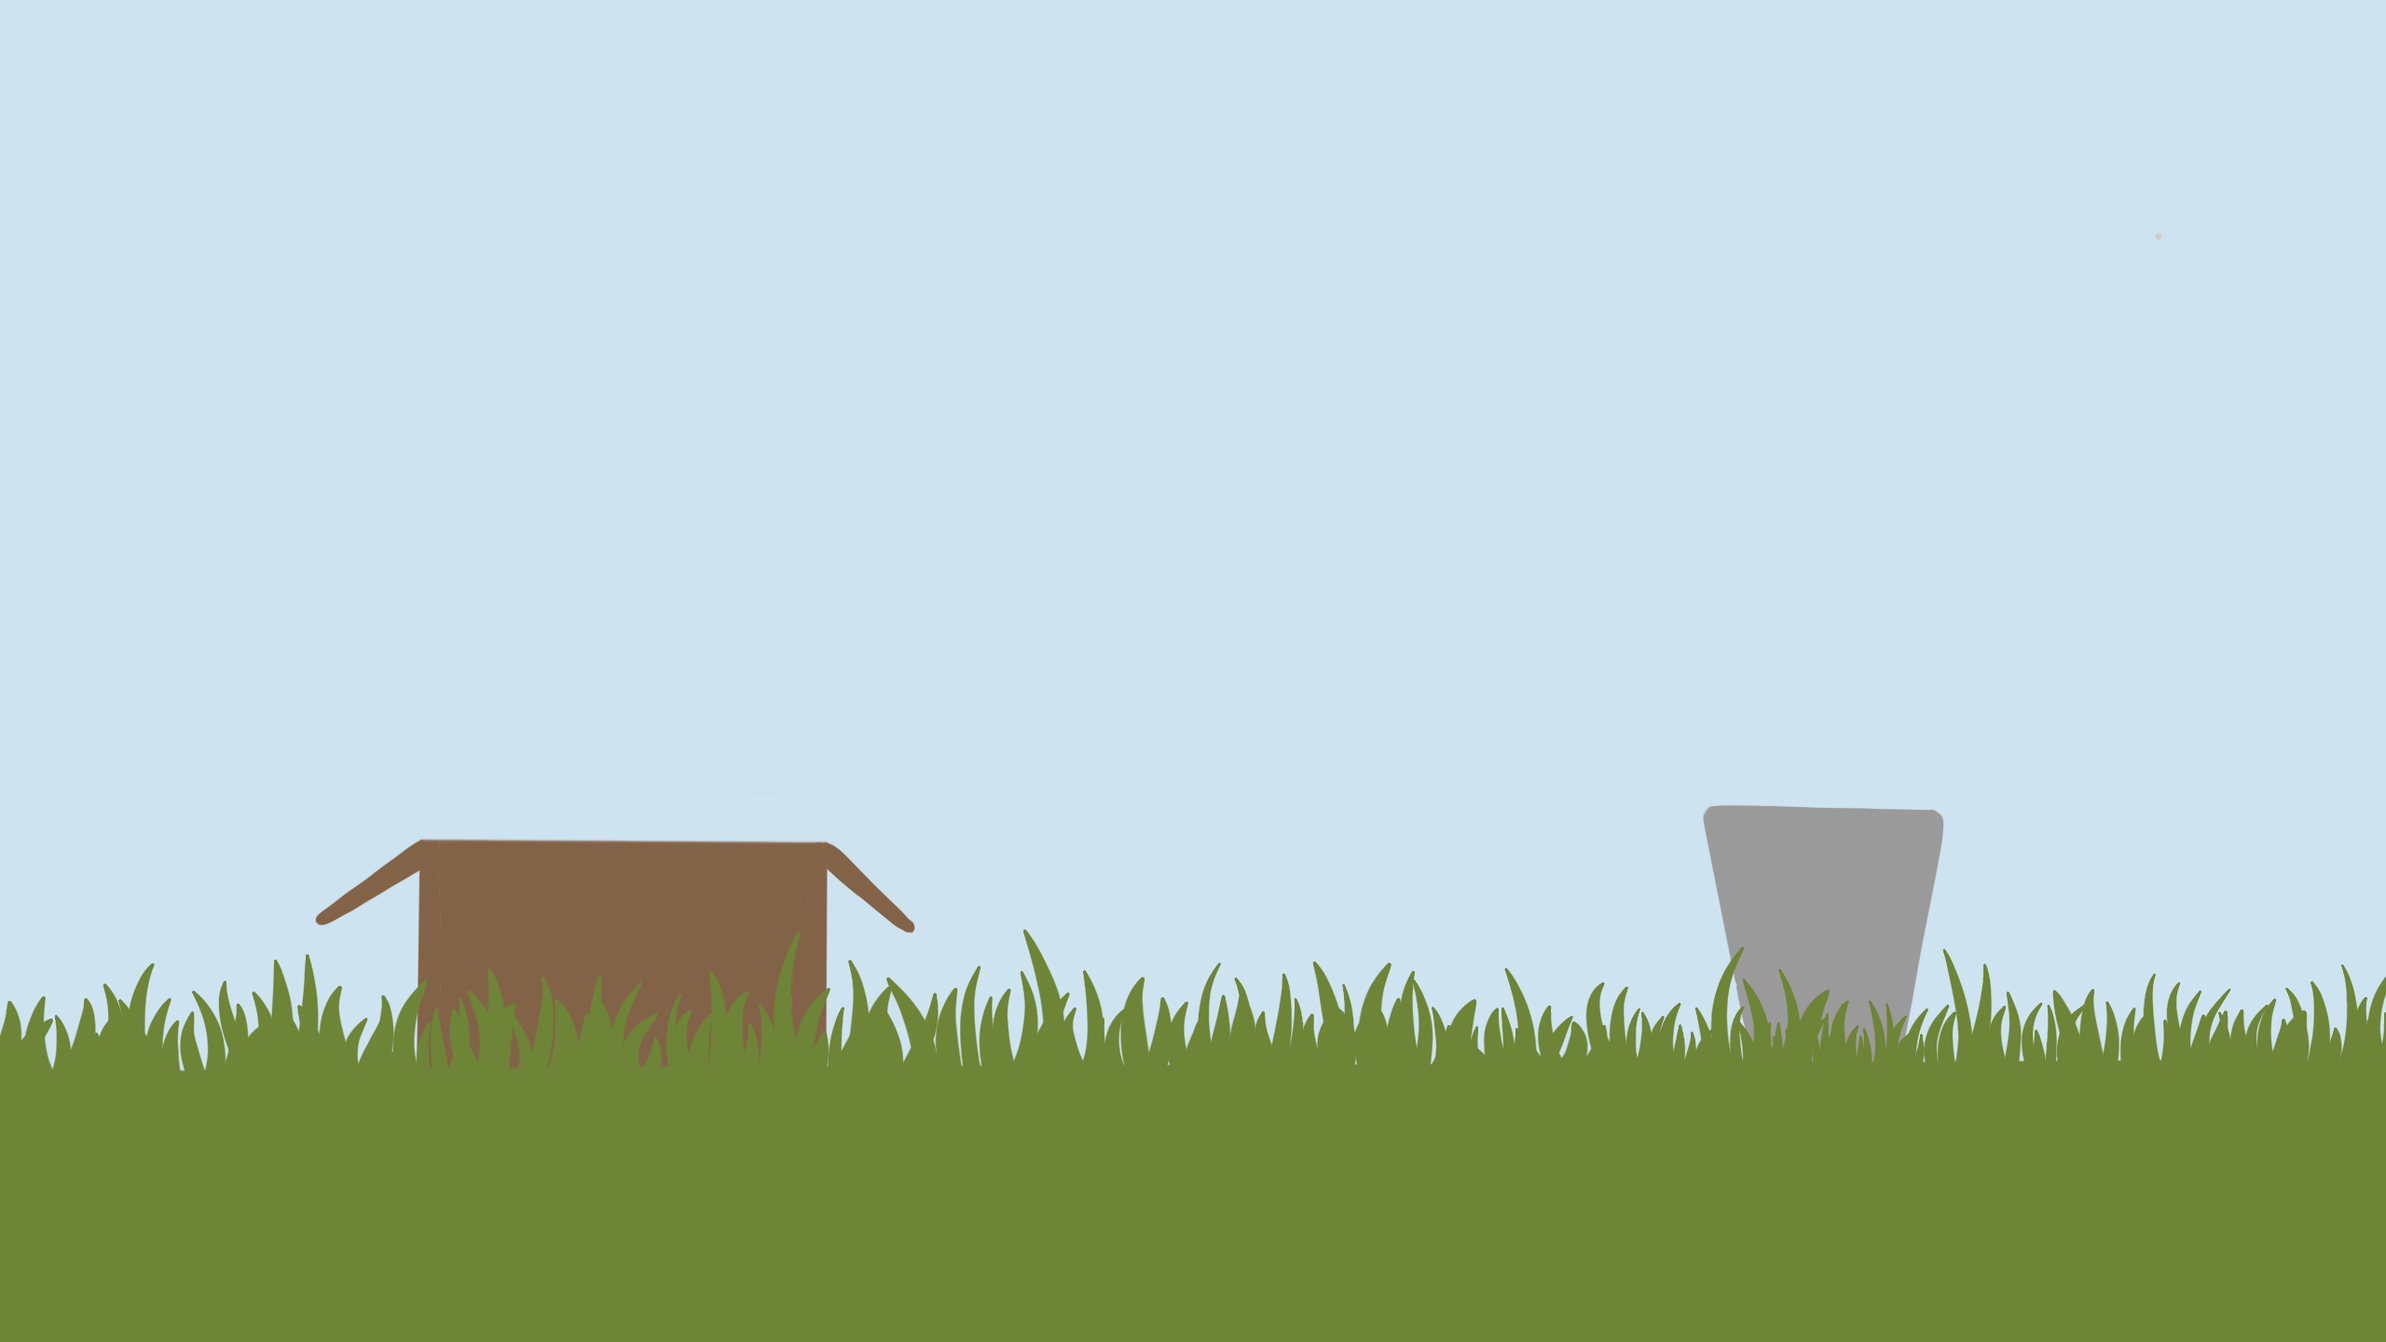
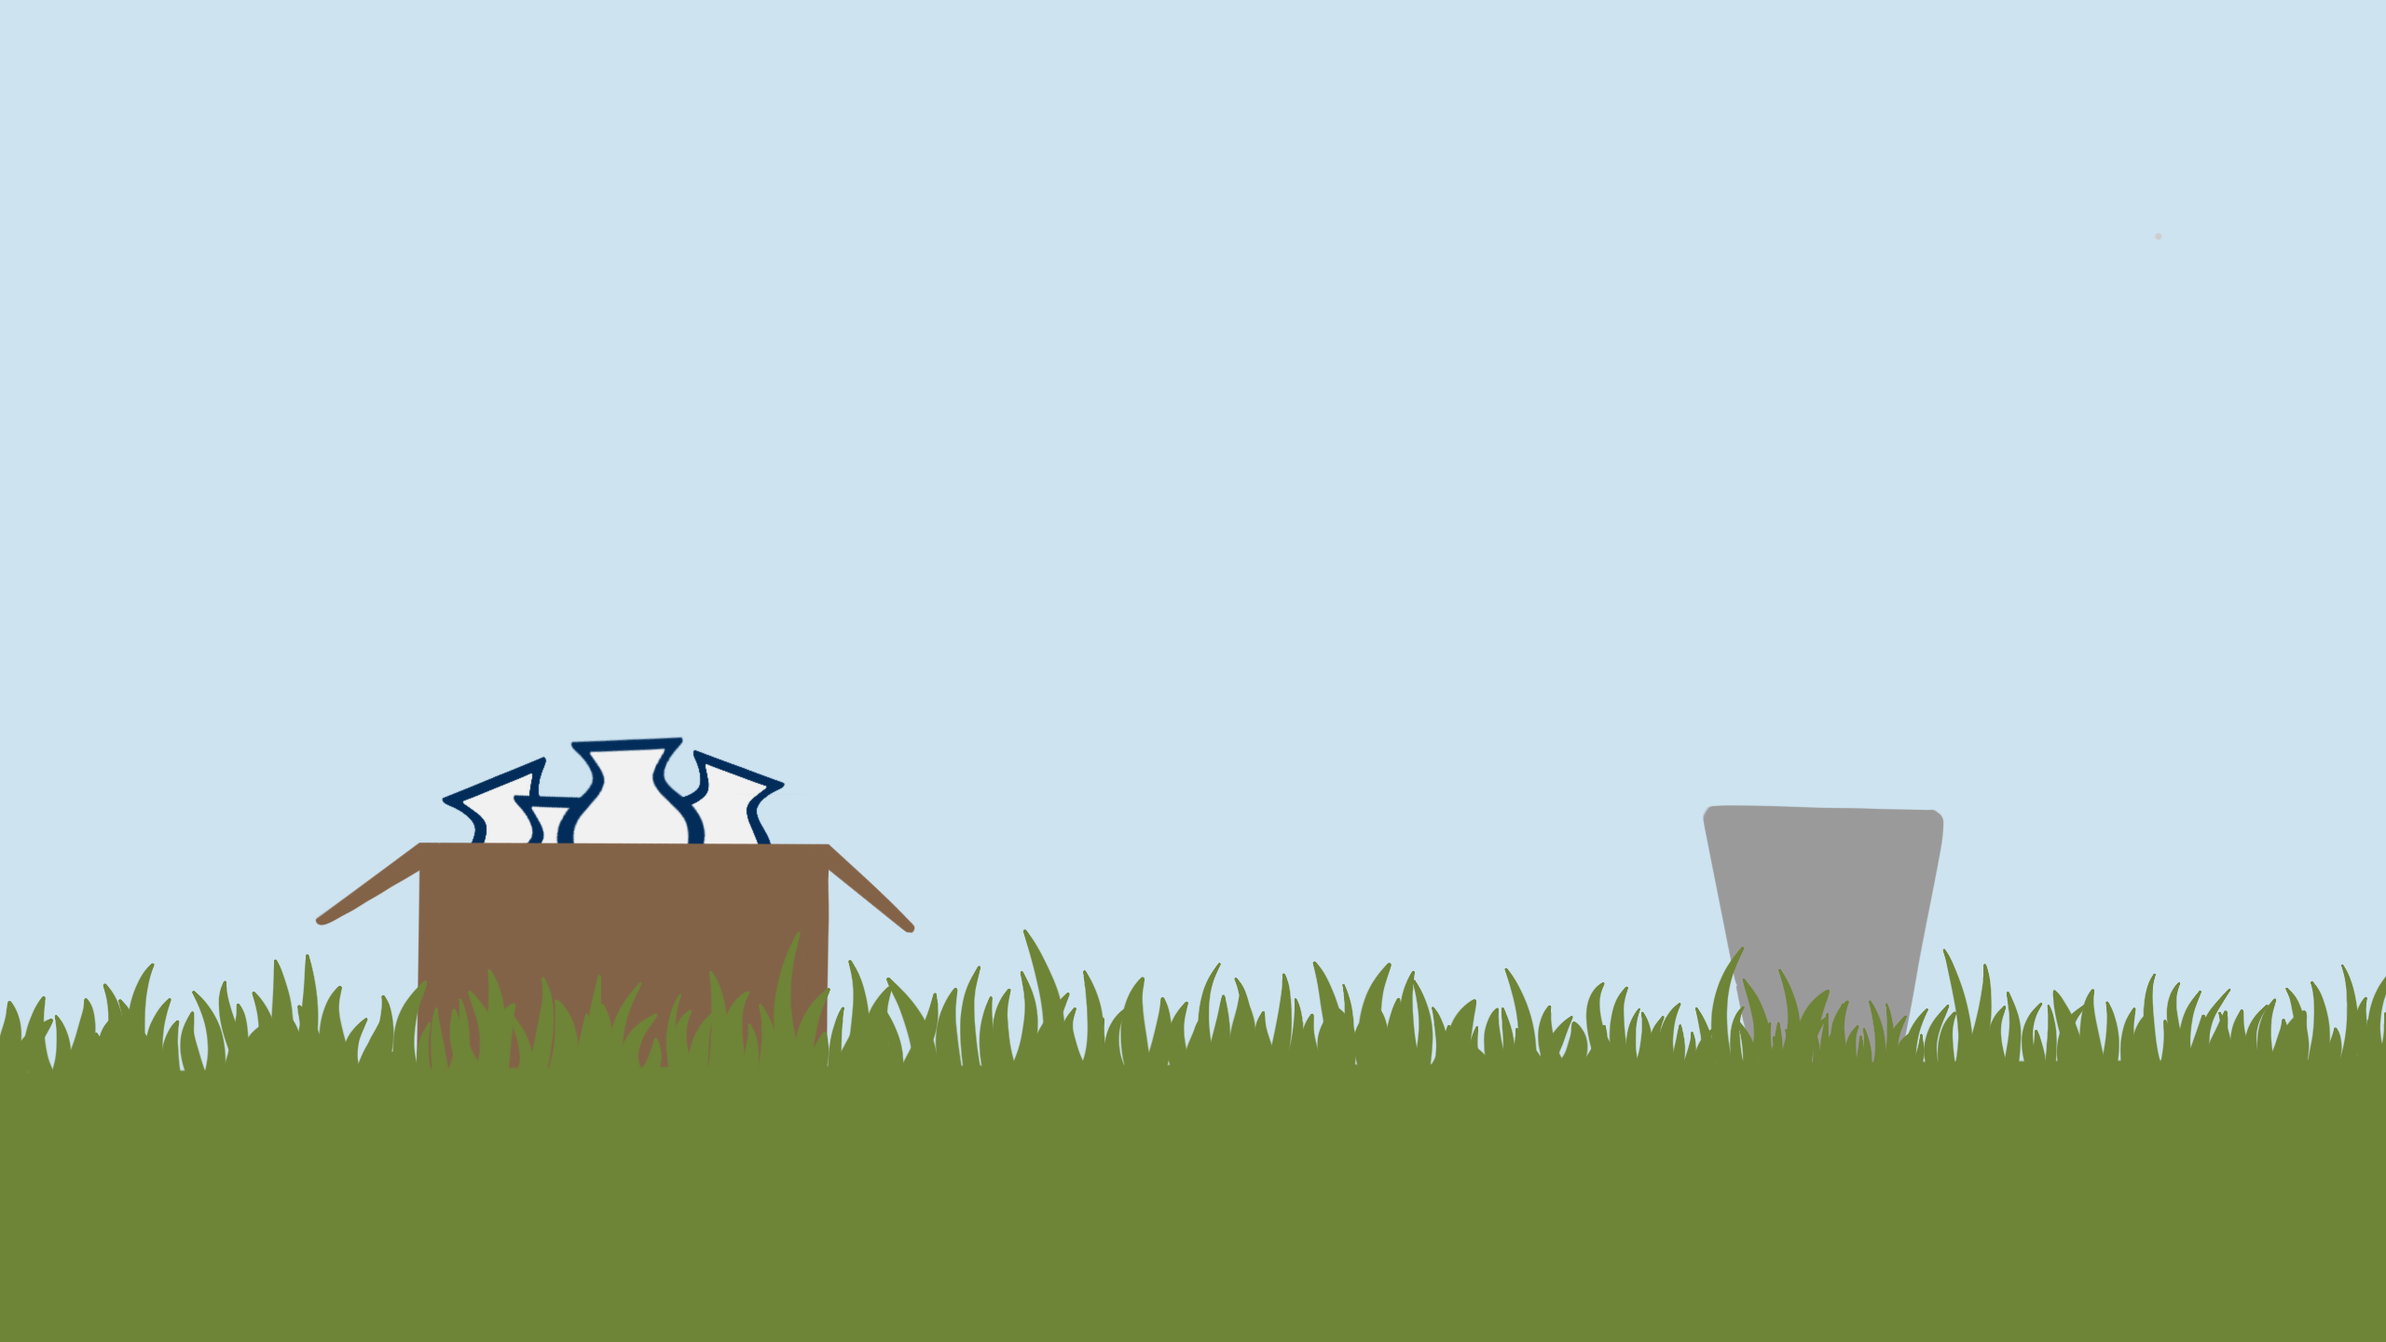
painting vases

Changed region(s): [[0.1562, 0.5312, 0.3438, 0.6562], [0.3438, 0.6562, 0.375, 0.6875]]

diff --git a/apps/frontend/src/components/arcade/Vase.tsx b/apps/frontend/src/components/arcade/Vase.tsx
@@ -1,0 +1,220 @@
+import {useEffect, useRef} from "react";
+import wavyVasePNG from "../../assets/arcade/vase-wavy.png";
+import stripeVasePNG from "../../assets/arcade/vase-stripe.png";
+import ArcadeButton from "@/components/arcade/ArcadeButton.tsx";
+
+function Vase(props:{mode: string, playerX: number, playerY: number, scale: number, type: string,
+    scoreVase: (score: number) => void, choosePattern: (pattern: string) => void}) {
+
+    const canvasRef = useRef<HTMLCanvasElement>(null);
+
+    const ctx = useRef<CanvasRenderingContext2D>(null);
+    if (canvasRef.current) {
+        ctx.current = canvasRef.current.getContext('2d');
+    }
+
+    const isDrawing = useRef(false);
+
+    const mouseX = useRef(0);
+    const mouseY = useRef(0);
+
+    const lastX = useRef(0);
+    const lastY = useRef(0);
+
+    const wavyImage = new Image(840, 840);
+    wavyImage.src = wavyVasePNG;
+    const stripeImage = new Image(840, 840);
+    stripeImage.src = stripeVasePNG;
+
+    const offsetX = useRef(0);
+    const offsetY = useRef(0);
+
+    const drawn = useRef(false);
+
+    const ogImageColors = useRef([0,0]);
+
+    useEffect(() => {
+
+        if (canvasRef.current != null && ctx.current != null) {
+
+            if ((drawn.current) && (props.mode == "noVase")) {
+                drawn.current = false;
+            }
+
+            offsetX.current = canvasRef.current.offsetLeft + canvasRef.current.getBoundingClientRect().left;
+            offsetY.current = canvasRef.current.offsetTop + canvasRef.current.getBoundingClientRect().top;
+
+            if (!drawn.current && (props.mode != "noVase")) {
+                ctx.current.imageSmoothingEnabled = true;
+                ctx.current.imageSmoothingQuality = "high";
+
+                if (props.type == "wavy") {
+                    ctx.current.drawImage(wavyImage, 0, 0, 400, 400);
+                }
+                else {
+                    ctx.current.drawImage(stripeImage, 0, 0, 400, 400);
+                }
+
+                ctx.current.beginPath();
+                ctx.current.moveTo(110,20);
+                ctx.current.lineTo(290,20);
+                ctx.current.lineTo(260,70);
+                ctx.current.lineTo(260,100);
+                ctx.current.lineTo(335,200);
+                ctx.current.lineTo(240,360);
+                ctx.current.lineTo(260,385);
+                ctx.current.lineTo(140,385);
+                ctx.current.lineTo(160,360);
+                ctx.current.lineTo(65,200);
+                ctx.current.lineTo(140,100);
+                ctx.current.lineTo(140,70);
+                ctx.current.lineTo(110,20);
+                ctx.current.clip();
+
+                drawn.current = true;
+                ctx.current.strokeStyle = "#012D5A";
+                ctx.current.lineWidth = 20;
+                ctx.current.lineCap = 'round';
+                ctx.current.lineJoin = 'round';
+
+                ogImageColors.current = getImageColors();
+            }
+
+        }
+
+    });
+
+    function getImageColors() {
+        const colors: number[] = [0,0];
+
+        //const paintColor = [1,45,90];
+        const traceColor = [196,196,196];
+        const vaseColor = [241,241,241];
+
+        if (ctx.current){
+            const pixels = ctx.current.getImageData(0, 0, 400, 400).data;
+            for (let i = 0; i < pixels.length; i+=4) {
+               if ((pixels[i] == traceColor[0]) && (pixels[i+1] == traceColor[1]) && (pixels[i+2] == traceColor[2])){
+                   colors[0]++;
+               }
+                if ((pixels[i] == vaseColor[0]) && (pixels[i+1] == vaseColor[1]) && (pixels[i+2] == vaseColor[2])){
+                    colors[1]++;
+                }
+            }
+        }
+        return colors;
+    }
+
+
+    function toggleDraw(e: React.MouseEvent, drawing: boolean) {
+        isDrawing.current = drawing;
+        mouseX.current = e.clientX - offsetX.current;
+        mouseY.current = e.clientY - offsetY.current;
+        lastX.current = e.clientX - offsetX.current;
+        lastY.current = e.clientY - offsetY.current;
+        if (ctx.current) ctx.current.beginPath();
+    }
+    function move(e: React.MouseEvent) {
+        if (isDrawing.current) {
+            lastX.current = mouseX.current;
+            lastY.current = mouseY.current;
+            mouseX.current = e.clientX - offsetX.current;
+            mouseY.current = e.clientY - offsetY.current;
+
+            if (ctx.current) {
+                ctx.current.beginPath();
+                ctx.current.moveTo(lastX.current, lastY.current);
+                ctx.current.lineTo(mouseX.current, mouseY.current);
+                ctx.current.stroke();
+            }
+        }
+
+    }
+
+    function getVasePosition() {
+        if (props.mode == "move") {
+            return {
+                top: props.playerY - 275 + "px",
+                left: props.playerX -180 + "px",
+                transform: `scale(0.25, 0.25) translate(0px, ${props.playerY/4}px)`,
+                display: "block"
+            };
+        }
+        if (props.mode == "paint") {
+            return {
+                top: "100px",
+                left: "300px",
+                display: "block"
+            };
+        }
+        if ((props.mode == "noVase") || (props.mode == "choose")) {
+            return {
+                display: "none"
+            };
+        }
+    }
+    function showBox() {
+        if (props.mode == "paint") {
+            return {
+                display: "flex"
+            };
+        }
+        else {
+            return {
+                display: "none"
+            };
+        }
+    }
+
+    function finishedPaint() {
+        const newColors = getImageColors();
+        //alert(newColors);
+
+        let score = 100;
+
+        const calcVaseScore = (Math.abs(ogImageColors.current[1] - newColors[1])+ newColors[0]);
+
+        const worstScore= ogImageColors.current[1]+ogImageColors.current[0];
+        score -= Math.min(calcVaseScore/worstScore*300, 100);
+
+        props.scoreVase(score);
+    }
+
+    function showChoice() {
+        if (props.mode == "choose") {
+            return {
+                display: "flex"
+            };
+        }
+        else {
+            return {
+                display: "none"
+            };
+        }
+    }
+
+
+    return(
+        <>
+            <div className="absolute centerContent flex flex-col bg-bone-white top-[180px] gap-6
+            left-[370px] w-[250px] h-[200px] z-0 rounded-4 shadow-2xl rounded-2xl p-3" style={showChoice()}>
+                <ArcadeButton onClick={() => {props.choosePattern("wavy"); drawn.current = false;}}>Wavy Vase</ArcadeButton>
+                <ArcadeButton onClick={() => {props.choosePattern("stripe"); drawn.current = false;}}>Striped Vase</ArcadeButton>
+            </div>
+            <div className="absolute centerContent flex flex-col place-content-between top-[40px] bg-bone-white
+            left-[300px] w-[400px] h-[525px] z-0 rounded-4 shadow-2xl rounded-2xl p-3" style={showBox()}>
+                <h2 className="font-bold text-lg">Paint the vase by tracing the pattern!</h2>
+                <ArcadeButton onClick={finishedPaint}>Done</ArcadeButton>
+            </div>
+            <div className="absolute" style={getVasePosition()}>
+                <canvas width={400} height={400} ref={canvasRef}
+                        onMouseDown={(e: React.MouseEvent) => toggleDraw(e, true)}
+                        onMouseUp={(e: React.MouseEvent) => toggleDraw(e, false)}
+                        onMouseMove={(e: React.MouseEvent) => move(e)}></canvas>
+
+            </div>
+        </>
+    );
+}
+
+export default Vase;

diff --git a/apps/frontend/src/routes/Arcade.tsx b/apps/frontend/src/routes/Arcade.tsx
@@ -10,6 +10,7 @@ import Plot from "@/components/arcade/Plot.tsx";
 import VaseTrash from "@/components/arcade/VaseTrash.tsx";
 import VaseBox from "@/components/arcade/VaseBox.tsx";
 import DeliveryBike from "@/components/arcade/DeliveryBike.tsx";
+import Vase from "@/components/arcade/Vase.tsx";
 
 function Arcade() {
 
@@ -29,11 +30,15 @@ function Arcade() {
         flowers: []
     });
 
+    const [vaseMode, setVaseMode] = useState("noVase");
+    const vaseScale = useRef(1);
+    const vasePattern = useRef("wavy");
+
     //Player movement constants
-    const START_HEIGHT = 430;
+    const START_HEIGHT = 455;
     const MAX_JUMP = 110;
     const MOVE_MULTIPLIER = 10;
-    const SCREEN_WIDTH = 1280;
+    const SCREEN_WIDTH = 1000;
     const SCREEN_HEIGHT = 600;
 
     //Player movement states/refs
@@ -52,6 +57,10 @@ function Arcade() {
 
     const orders = useRef([]);
     const orderTimes = useRef([]);
+
+    const orderNum = useRef(0);
+    const currentOrder = useRef({flowers: 0, vase: 0, time: 0});
+    const orderScoresAvg = useRef({flowers: 0, vase: 0, time: 0});
 
     useEffect(() => {
         //Implementing the setInterval method
@@ -165,10 +174,14 @@ function Arcade() {
 
     function grabVase() {
         setHasVase(true);
+        setVaseMode("choose");
+        vaseScale.current = .25;
         vase.current.hasVase = true;
     }
     function trashVase() {
         if (hasVase) {
+            setVaseMode("noVase");
+            vaseScale.current = 1;
             setHasVase(false);
             vase.current.hasVase = false;
             vase.current.flowers = [];
@@ -185,7 +198,10 @@ function Arcade() {
     }
 
     function deliverVase() {
-        const toScore = orders.current[0];
+        setVaseMode("noVase");
+        vaseScale.current = 1;
+        const toScore = [];
+        toScore.push(orders.current[0]);
         let score = 100;
 
         const orderCount = {
@@ -214,6 +230,11 @@ function Arcade() {
         score = Math.max(0, score);
 
         alert(score);
+        currentOrder.current.flowers = score;
+
+        orderScoresAvg.current.flowers = (orderScoresAvg.current.flowers + score)/(orderNum.current+1);
+        orderScoresAvg.current.vase = (orderScoresAvg.current.vase + currentOrder.current.vase)/(orderNum.current+1);
+        orderScoresAvg.current.time = (orderScoresAvg.current.flowers + currentOrder.current.time)/(orderNum.current+1);
 
         vase.current.hasVase = false;
         vase.current.flowers = [];
@@ -221,6 +242,19 @@ function Arcade() {
 
         orders.current.splice(0,1);
         orderTimes.current.splice(0,1);
+
+        orderNum.current += 1;
+    }
+
+    function scoreVase(score: number){
+        setVaseMode("move");
+
+        currentOrder.current.vase = score;
+    }
+
+    function choosePattern(pattern: string) {
+        vasePattern.current = pattern;
+        setVaseMode("paint");
     }
 
 
@@ -229,7 +263,7 @@ function Arcade() {
             <div className="centerContent w-full h-screen fixed top-0 flex-col">
                 <h1 className="text-2xl">Flower Delivery Game</h1>
                 <div className="relative border-4 border-black overflow-hidden"
-                     style = {{width: SCREEN_WIDTH + "px", height: SCREEN_HEIGHT + "px"}}
+                     style = {{width: SCREEN_WIDTH + "px", height: SCREEN_HEIGHT + "px", backgroundColor: "#C9E4F1"}}
                      onKeyDown={(e: React.KeyboardEvent) => {movePlayer(e);}}
                      onKeyUp={(e: React.KeyboardEvent) => {stopMove(e);}}
                      tabIndex={0}
@@ -238,22 +272,25 @@ function Arcade() {
                     <OrderManager orderMax={ORDER_MAX} flowers={FLOWERS} currentTime={globalTime}
                                   addOrder={addOrder} orders = {orders.current} orderTimes={orderTimes.current}/>
 
-                    <Plot x1={150} x2={380} playerX={playerX} plot={1} currentLoc={LOCATIONS[currentLoc.current].name}
+                    <Plot x1={115} x2={300} playerX={playerX} plot={1} currentLoc={LOCATIONS[currentLoc.current].name}
                           currentTime={globalTime} vase={vase.current} addToVase={addToVase}/>
-                    <Plot x1={490} x2={720} playerX={playerX} plot={2} currentLoc={LOCATIONS[currentLoc.current].name}
+                    <Plot x1={380} x2={560} playerX={playerX} plot={2} currentLoc={LOCATIONS[currentLoc.current].name}
                           currentTime={globalTime} vase={vase.current} addToVase={addToVase}/>
-                    <Plot x1={850} x2={1090} playerX={playerX} plot={3} currentLoc={LOCATIONS[currentLoc.current].name}
+                    <Plot x1={660} x2={850} playerX={playerX} plot={3} currentLoc={LOCATIONS[currentLoc.current].name}
                           currentTime={globalTime} vase={vase.current} addToVase={addToVase}/>
 
-                    <VaseTrash x1={900} x2={1040} playerX={playerX} currentLoc={LOCATIONS[currentLoc.current].name}
+                    <VaseTrash x1={710} x2={810} playerX={playerX} currentLoc={LOCATIONS[currentLoc.current].name}
                                trashVase={trashVase}/>
-                    <VaseBox x1={210} x2={450} playerX={playerX} currentLoc={LOCATIONS[currentLoc.current].name}
+                    <VaseBox x1={170} x2={350} playerX={playerX} currentLoc={LOCATIONS[currentLoc.current].name}
                              grabVase={grabVase} hasVase={hasVase}/>
                     <DeliveryBike x1={650} x2={900} playerX={playerX} currentLoc={LOCATIONS[currentLoc.current].name}
                                   hasVase={hasVase} deliverVase={deliverVase}/>
 
 
                     <Player xpos={playerX} ypos={playerY} vase={vase.current}/>
+
+                    <Vase mode={vaseMode} playerX={playerX} playerY={playerY} type={vasePattern.current} scale={vaseScale.current}
+                          scoreVase = {scoreVase} choosePattern={choosePattern}/>
                 </div>
 
             </div>

diff --git a/apps/frontend/src/components/arcade/ArcadeButton.tsx b/apps/frontend/src/components/arcade/ArcadeButton.tsx
@@ -4,7 +4,7 @@ import React, {ReactNode} from "react";
 function ArcadeButton(props:{px: string,py:string, rounded:string, color: string, onClick:(e: React.MouseEvent) => void, children: ReactNode}) {
     return(
         <>
-        <motion.div className={`${props.px} ${props.py} ${props.color} font-bold text-white w-fit ${props.rounded}`}
+        <motion.div className={`${props.px} ${props.py} ${props.color} font-bold text-white w-fit cursor-pointer ${props.rounded}`}
                        onClick={props.onClick}
                        whileHover={{scale: 1.1}}
                        whileTap={{scale: 0.9}}

diff --git a/apps/frontend/src/components/arcade/BoundingRect.tsx b/apps/frontend/src/components/arcade/BoundingRect.tsx
@@ -24,7 +24,8 @@ function BoundingRect(props:{x1: number, x2: number, changeOverlap: (boolean) =>
             {
                 width: props.x2-props.x1 + "px",
                 height: "20px",
-                top: "430px",
+                top: "460px",
+                opacity: 0.5,
                 left: props.x1 + "px"
 
             }
